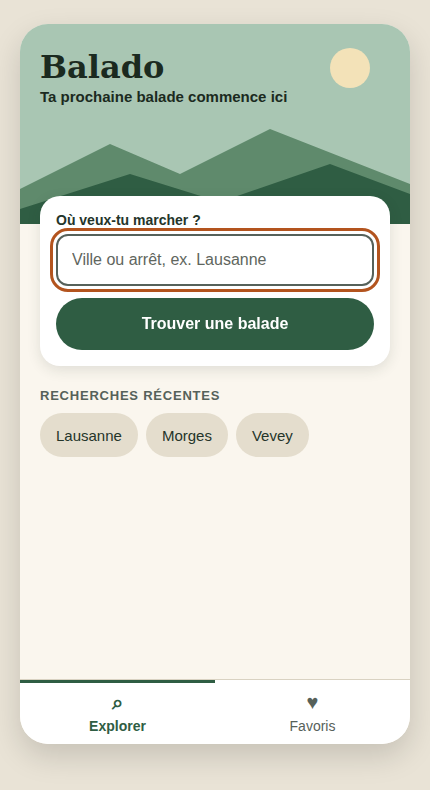
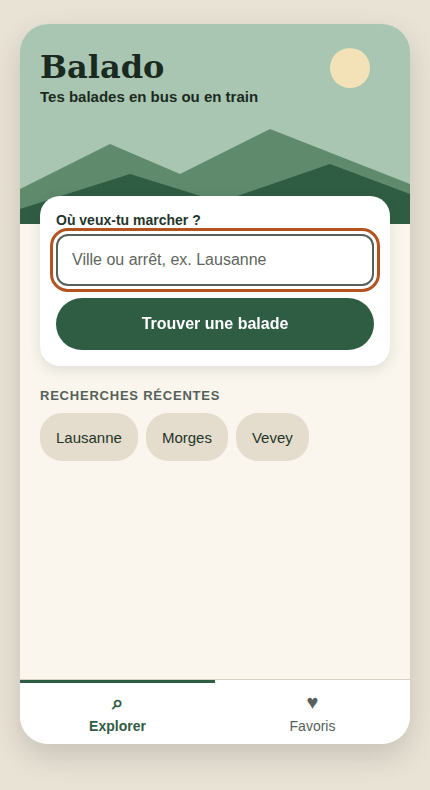
Test utilisateur (simulé) et 2 correctifs appliqués à la maquette
- Infos de départ explicites (« 12 min de train », « puis 6 min à pied »)
- Sous-titre d'accueil « Tes balades en bus ou en train »

Claude-Session: https://claude.ai/code/session_01WeTWY5EqRk28tUDxrDcrJu

diff --git a/Design/maquette/index.html b/Design/maquette/index.html
@@ -98,7 +98,7 @@
     <section class="screen" id="screen-recherche" aria-labelledby="t-recherche">
       <div class="hero">
         <svg aria-hidden="true" viewBox="0 0 390 200" preserveAspectRatio="none"><rect width="390" height="200" fill="#a9c6b3"/><path d="M0 165 L90 120 L160 150 L250 105 L390 160 L390 200 L0 200Z" fill="#5f8a6c"/><path d="M0 185 L110 150 L200 178 L310 140 L390 170 L390 200 L0 200Z" fill="#2f5d43"/><circle cx="330" cy="44" r="20" fill="#f3e2b8"/></svg>
-        <div class="hero-title"><h1 id="t-recherche" tabindex="-1">Balado</h1><p>Ta prochaine balade commence ici</p></div>
+        <div class="hero-title"><h1 id="t-recherche" tabindex="-1">Balado</h1><p>Tes balades en bus ou en train</p></div>
       </div>
       <form class="search-box" id="search-form" novalidate>
         <label for="lieu">Où veux-tu marcher ?</label>
@@ -165,12 +165,12 @@
 
 <script>
 const RANDOS = [
-  {id:1, nom:"Bois de Sauvabelin", lieu:"Lausanne", duree:"1 h 30", km:"5 km", deniv:"+120 m", niveau:"Facile", tp:"BUS", dep:"Sallaz", acces:"6 min à pied", desc:"Une boucle en forêt autour du lac de Sauvabelin, avec la tour en bois et sa vue sur le Léman.", c:["#bcd3c1","#4f7a5d"]},
-  {id:2, nom:"Rives de la Venoge", lieu:"Lausanne", duree:"2 h", km:"7 km", deniv:"+60 m", niveau:"Facile", tp:"TRAIN", dep:"Denges", acces:"9 min", desc:"Une balade plate le long de la rivière jusqu'au lac. Idéale pour une première sortie.", c:["#c9dccf","#5f8a6c"]},
-  {id:3, nom:"Lavaux, terrasses", lieu:"Lausanne", duree:"2 h 45", km:"9 km", deniv:"+350 m", niveau:"Moyen", tp:"TRAIN", dep:"Cully", acces:"12 min", desc:"Entre vignes et lac, une vue imprenable sur les Alpes. Retour en train depuis Chexbres.", c:["#d9cfa9","#8b9a5b"]},
-  {id:4, nom:"Gorges du Chauderon", lieu:"Lausanne", duree:"3 h 30", km:"11 km", deniv:"+640 m", niveau:"Difficile", tp:"TRAIN", dep:"Montreux", acces:"22 min", desc:"Montée raide dans les gorges, cascades et passerelles. Bonnes chaussures conseillées.", c:["#b9c4cf","#3a4658"]},
-  {id:5, nom:"Bord du lac de Morges", lieu:"Morges", duree:"1 h 15", km:"4 km", deniv:"+20 m", niveau:"Facile", tp:"TRAIN", dep:"Morges", acces:"0 min", desc:"Promenade au bord de l'eau, du château au parc de l'Indépendance.", c:["#c9dccf","#5f8a6c"]},
-  {id:6, nom:"Mont Pèlerin", lieu:"Vevey", duree:"2 h 30", km:"7 km", deniv:"+480 m", niveau:"Moyen", tp:"FUNI", dep:"Vevey-Corseaux", acces:"5 min", desc:"Montée par la forêt jusqu'au belvédère, descente en funiculaire possible.", c:["#d9cfa9","#6f8a4b"]},
+  {id:1, nom:"Bois de Sauvabelin", lieu:"Lausanne", duree:"1 h 30", km:"5 km", deniv:"+120 m", niveau:"Facile", tp:"BUS", dep:"Arrêt Sallaz", acces:"puis 6 min à pied", desc:"Une boucle en forêt autour du lac de Sauvabelin, avec la tour en bois et sa vue sur le Léman.", c:["#bcd3c1","#4f7a5d"]},
+  {id:2, nom:"Rives de la Venoge", lieu:"Lausanne", duree:"2 h", km:"7 km", deniv:"+60 m", niveau:"Facile", tp:"TRAIN", dep:"Gare de Denges", acces:"9 min de train", desc:"Une balade plate le long de la rivière jusqu'au lac. Idéale pour une première sortie.", c:["#c9dccf","#5f8a6c"]},
+  {id:3, nom:"Lavaux, terrasses", lieu:"Lausanne", duree:"2 h 45", km:"9 km", deniv:"+350 m", niveau:"Moyen", tp:"TRAIN", dep:"Gare de Cully", acces:"12 min de train", desc:"Entre vignes et lac, une vue imprenable sur les Alpes. Retour en train depuis Chexbres.", c:["#d9cfa9","#8b9a5b"]},
+  {id:4, nom:"Gorges du Chauderon", lieu:"Lausanne", duree:"3 h 30", km:"11 km", deniv:"+640 m", niveau:"Difficile", tp:"TRAIN", dep:"Gare de Montreux", acces:"22 min de train", desc:"Montée raide dans les gorges, cascades et passerelles. Bonnes chaussures conseillées.", c:["#b9c4cf","#3a4658"]},
+  {id:5, nom:"Bord du lac de Morges", lieu:"Morges", duree:"1 h 15", km:"4 km", deniv:"+20 m", niveau:"Facile", tp:"TRAIN", dep:"Gare de Morges", acces:"départ devant la gare", desc:"Promenade au bord de l'eau, du château au parc de l'Indépendance.", c:["#c9dccf","#5f8a6c"]},
+  {id:6, nom:"Mont Pèlerin", lieu:"Vevey", duree:"2 h 30", km:"7 km", deniv:"+480 m", niveau:"Moyen", tp:"TRAIN", dep:"Gare de Vevey", acces:"puis 5 min à pied", desc:"Montée par la forêt jusqu'au belvédère, descente en funiculaire possible.", c:["#d9cfa9","#6f8a4b"]},
 ];
 const favs = new Set();
 let lieu = "Lausanne", niveau = "all", ficheId = null, ficheFrom = "resultats";
@@ -224,7 +224,7 @@ function renderFiche(){
   const r = RANDOS.find(x => x.id === ficheId);
   $('#t-fiche').textContent = r.nom;
   $('#fiche-img').innerHTML = svg(r.c);
-  $('#fiche-dep').innerHTML = `<span class="badge-tp">${r.tp}</span> Départ : ${r.dep} · ${r.acces}`;
+  $('#fiche-dep').innerHTML = `<span class="badge-tp">${r.tp}</span> Départ : ${r.dep} · ${r.acces}<span class="sr-only"> (trajet depuis le lieu recherché)</span>`;
   $('#fiche-facts').innerHTML = `<div>Durée<b>${r.duree}</b></div><div>Distance<b>${r.km}</b></div><div>Dénivelé<b>${r.deniv}</b></div><div>Niveau<b>${r.niveau}</b></div>`;
   $('#fiche-desc').textContent = r.desc;
   const on = favs.has(r.id), b = $('#fiche-fav');

diff --git a/Design/tests-utilisateurs.md b/Design/tests-utilisateurs.md
@@ -101,43 +101,44 @@ Tâche réussie si le testeur arrive sur l'écran **Favoris** avec une balade **
 
 ### 2.3 Fiche d'observation
 
-> ✏ **À remplir pendant le test avec ton camarade.**
+> ⚠ **Test simulé.** Ce test n'a pas été passé par un vrai camarade : le rôle du testeur a été **simulé par une IA** (Claude). Elle a parcouru la maquette réelle en jouant un élève de 17 ans qui la découvre. Les observations s'appuient sur ce que la maquette affiche vraiment, mais **les temps et les réactions sont des estimations**. À remplacer par un vrai test en binôme si l'enseignant l'exige.
 
-**App testée :** Balado (maquette HTML)
-**Testeur :** ______________________
-**Observateur :** ______________________
-**Date :** ______________________
-**Tâche donnée :** trouver une balade facile depuis Lausanne et l'ajouter aux favoris
+**App testée :** Balado (maquette HTML, `Design/maquette/index.html`)
+**Testeur :** camarade simulé (« Noah », 17 ans, apprenti, ne connaît pas le projet)
+**Observateur :** Loric
+**Date :** 09.10.2026
+**Tâche donnée :** « Tu veux marcher samedi après-midi depuis Lausanne et tu n'as pas de voiture : trouve une balade facile et garde-la pour la retrouver plus tard. »
 
 #### Test 5 secondes
-« C'est une appli pour… » (phrase du testeur) : ______________________
+« C'est une appli pour… » : *« …trouver des randos, des balades à faire, je crois. »*
 
-Écart avec l'intention (« trouver une petite rando accessible en transports ») : ______________________
+Écart avec l'intention : **le côté transports publics n'est pas perçu.** L'accueil montrait seulement « Ta prochaine balade commence ici » : rien n'indique que les balades partent d'un bus ou d'un train, alors que c'est la promesse principale de l'app.
 
 #### Test de localisation
-Consigne dite : « Montre-moi où tu tapoterais pour **ajouter cette balade à tes favoris** » (sur l'écran Fiche).
+Consigne dite : « Montre-moi où tu tapoterais pour **ajouter cette balade à tes favoris** » (écran Fiche, Lavaux).
 
-Le doigt est allé au **bon** contrôle : oui / non / à côté
-Hésitation : ______________________
-Dit à voix haute : ______________________
-J'ai aidé : oui / non
+Le doigt est allé au **bon** contrôle : **oui**, le grand bouton vert « ♡ Ajouter aux favoris »
+Hésitation : aucune (~1 s)
+Dit à voix haute : *« Ben là, c'est écrit. »*
+J'ai aidé : **non**
 
 #### Déroulé de la tâche complète
 
-| Étape attendue | Réussi ? | Hésitation observée (regard perdu, mauvais clic…) | Phrase dite à voix haute |
+| Étape attendue | Réussi ? | Hésitation observée | Phrase dite à voix haute |
 |---|:-:|---|---|
-| 1. Écrire « Lausanne » et lancer la recherche | | | |
-| 2. Filtrer sur « Facile » | | | |
-| 3. Ouvrir une balade | | | |
-| 4. L'ajouter aux favoris | | | |
-| 5. Retrouver la balade dans Favoris | | | |
+| 1. Écrire « Lausanne » et lancer la recherche | ✅ | Aucune. Il tape « lausanne » en minuscules, ça marche | *« J'écris Lausanne… Trouver une balade, ok. »* |
+| 2. Filtrer sur « Facile » | ✅ | ~3 s : il lit d'abord les cartes avant de voir les puces de difficulté | *« Il y a des faciles et des difficiles… ah, je peux trier là. »* |
+| 3. Ouvrir une balade | ⚠ | **Il s'arrête sur l'info de départ.** Les cartes affichaient « BUS Sallaz · 6 min à pied » mais « TRAIN Cully · 12 min ». Le chiffre n'a pas le même sens selon la carte. Il touche finalement la carte | *« 12 minutes… c'est le train ou c'est à pied jusqu'au départ ? »* |
+| 4. L'ajouter aux favoris | ✅ | Aucune. Bouton trouvé tout de suite, il remarque le message « ✓ Ajoutée à tes favoris » | *« Ok, c'est enregistré. »* |
+| 5. Retrouver la balade dans Favoris | ✅ | Il touche « Voir » dans le message plutôt que l'onglet du bas | *« Voilà, elle est là. »* |
 
-**Temps total :** ____ min ____ s (limite : 5 min)
-**Tâche réussie :** oui / non / avec aide
+**Temps total :** ~1 min 10 s, estimé (limite : 5 min)
+**Tâche réussie :** **oui, sans aide**
 
 **Remarques spontanées :**
-- …
-- …
+- *« C'est clair, il y a pas trop de trucs. »*
+- *« Le BUS / TRAIN c'est pratique, mais je comprends pas toujours le temps. »*
+- *« J'aurais pas su direct que c'était fait pour les gens sans voiture. »*
 
 ---
 
@@ -151,18 +152,20 @@ J'ai aidé : oui / non
 | Puces et liens du message trop petits (44 px) | Hauteur minimale 48 px |
 | Message de confirmation qui disparaît trop vite au clavier | 10 s, et reste affiché tant qu'il a le focus |
 
-### 3.2 Issues du test utilisateur (2 correctifs prioritaires)
+### 3.2 Issues du test utilisateur — 2 correctifs prioritaires (appliqués)
 
-> ✏ **À compléter après le test**, à partir des hésitations notées en 2.3. Format : *problème observé → correctif concret et chiffré*.
+**Correctif 1 : info de départ ambiguë** *(priorité haute, étape 3)*
+- Problème observé : le même format « lieu · X min » voulait dire tantôt « minutes de marche », tantôt « minutes de train ». Le testeur s'est arrêté sur l'étape 3 pour essayer de comprendre.
+- Avant : `BUS Sallaz · 6 min à pied` / `TRAIN Cully · 12 min`
+- Après (appliqué) : `BUS Arrêt Sallaz · puis 6 min à pied` / `TRAIN Gare de Cully · 12 min de train`. Chaque info dit maintenant **quel moyen** et **quelle durée**, pour les 6 balades.
+- À vérifier au prochain test : le testeur ne doit plus hésiter à l'étape 3 (0 question sur le temps).
 
-**Correctif 1**
-- Problème observé : ______________________
-- Avant : ______________________
-- Après (prévu) : ______________________
+**Correctif 2 : promesse « sans voiture » invisible** *(priorité moyenne, test 5 secondes)*
+- Problème observé : au test 5 s, le testeur a compris « app de randos », mais pas « randos accessibles en transports publics ».
+- Avant : sous-titre d'accueil « Ta prochaine balade commence ici »
+- Après (appliqué) : sous-titre « **Tes balades en bus ou en train** », en gras, contraste 8,16:1.
+- À vérifier au prochain test : la phrase du test 5 s doit mentionner les transports, le bus ou le train.
 
-**Correctif 2**
-- Problème observé : ______________________
-- Avant : ______________________
-- Après (prévu) : ______________________
-
-*Points à surveiller pendant le test, car ce sont des frictions possibles :* le testeur trouve-t-il le filtre « Facile » sans défiler ? Comprend-il que le cœur ♡ sur la carte ajoute directement aux favoris ? Remarque-t-il le message « ✓ Ajoutée à tes favoris » ?
+**1 changement que je ferai (fiche e2-7)**
+- Avant : `TRAIN Cully · 12 min`
+- Après : `TRAIN Gare de Cully · 12 min de train`
